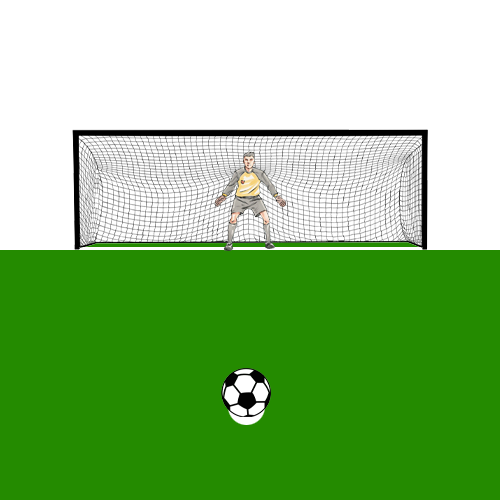
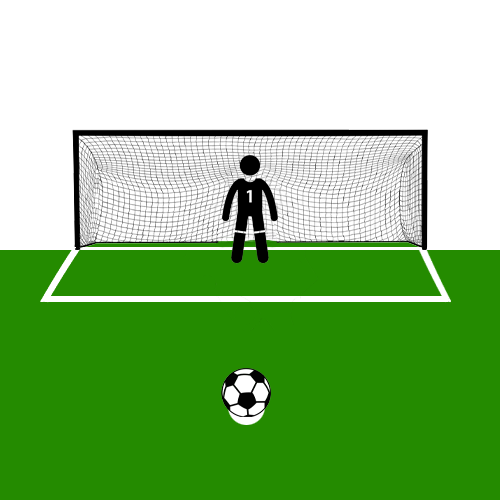
advanced penalty command

Changed region(s): [[0.09, 0.48, 0.9, 0.63], [0.42, 0.3, 0.6, 0.54]]

diff --git a/commands/penalty.js b/commands/penalty.js
@@ -28,7 +28,7 @@ module.exports = {
 
         if (cooldown < 0) return interaction.reply({ content: `You need to wait **${parseInt(-1 * cooldown / 1000)}s** to use the commands again`, ephemeral: true });
 
-        if(data.economy.wallet < bid) return interaction.reply({ content: `You don't even have that amount.`, ephemeral: true });
+        if (data.economy.wallet < bid) return interaction.reply({ content: `You don't even have that amount.`, ephemeral: true });
 
         if (bid <= 0 || bid > 2000) return interaction.reply({ content: 'You can\'t bid with more than **2000** or with negative amounts.', ephemeral: true })
 
@@ -40,9 +40,18 @@ module.exports = {
 
         const baseImage = await Canvas.loadImage('assests/initial.png');
         const ball = await Canvas.loadImage('assests/football.png');
-        const left = await Canvas.loadImage('assests/left.png');
-        const right = await Canvas.loadImage('assests/right.png');
-        const middle = await Canvas.loadImage('assests/middle.png');
+        const left = {
+            direction: 'left',
+            img: await Canvas.loadImage('assests/left.png')
+        };
+        const right = {
+            direction: 'right',
+            img: await Canvas.loadImage('assests/right.png')
+        };
+        const middle = {
+            direction: 'middle',
+            img: await Canvas.loadImage('assests/middle.png')
+        };
 
         ctx.drawImage(baseImage, 0, 0, canvas.width, canvas.height);
 
@@ -93,47 +102,49 @@ module.exports = {
 
             let message = "";
 
-            const canvas2 = Canvas.createCanvas(500, 500);
-
-            const ctx2 = canvas2.getContext('2d');
+            switch (goalKeeperGuess) {
+                case 'left':
+                    ctx.drawImage(left.img, 0, 0, canvas.width, canvas.height);
+                    break;
+                case 'right':
+                    ctx.drawImage(right.img, 0, 0, canvas.width, canvas.height);
+                    break;
+                case 'middle':
+                    ctx.drawImage(middle.img, 0, 0, canvas.width, canvas.height);
+                    break;
+            }
 
             if (col.customId === goalKeeperGuess) {
                 switch (col.customId) {
                     case 'left':
-                        ctx2.drawImage(left, 0, 0, canvas2.width, canvas2.height);
-                        ctx2.drawImage(ball, 100, 200, 20, 20);
-                        message = `Bad Guess, You shooted **left** but the goalkeeper saved it. You Lost **${bid}** ${config.coinEmoji}`;
+                        ctx.drawImage(ball, 120, 160, 20, 20);
+                        message = `Bad Guess, You shooted **left** and the goalkeeper guessed **${goalKeeperGuess}** You Lost **${bid}** ${config.coinEmoji}`;
                         break;
                     case 'middle':
-                        ctx2.drawImage(middle, 0, 0, canvas2.width, canvas2.height);
-                        ctx2.drawImage(ball, 235, 200, 20, 20);
-                        message = `Bad Guess, You shooted in the **middle** but the goalkeeper saved it. You Lost **${bid}** ${config.coinEmoji}`;
+                        ctx.drawImage(ball, 235, 180, 20, 20);
+                        message = `Bad Guess, You shooted in the **middle** and the goalkeeper guessed **${goalKeeperGuess}** You Lost **${bid}** ${config.coinEmoji}`;
                         break;
                     case 'right':
-                        ctx2.drawImage(middle, 0, 0, canvas2.width, canvas2.height);
-                        ctx2.drawImage(ball, 380, 200, 20, 20);
-                        message = `Bad Guess, You shooted **right** but the goalkeeper saved it. You Lost **${bid}** ${config.coinEmoji}`;
+                        ctx.drawImage(ball, 360, 190, 20, 20);
+                        message = `Bad Guess, You shooted **right** and the goalkeeper guessed **${goalKeeperGuess}** You Lost **${bid}** ${config.coinEmoji}`;
                         break;
                 }
-                
-                data.economy.wallet += bid * 2;
+
+                data.economy.wallet += bid * 1.5;
                 await data.save();
-            } else {
+            } else if (col.customId !== goalKeeperGuess) {
                 switch (col.customId) {
                     case 'left':
-                        ctx2.drawImage(right, 0, 0, canvas2.width, canvas2.height);
-                        ctx2.drawImage(ball, 100, 200, 20, 20);
-                        message = `Good Guess, You shooted **left** and the goalkeeper didn't saved it. You won **${bid * 2}** ${config.coinEmoji}`;
+                        ctx.drawImage(ball, 100, 200, 20, 20);
+                        message = `Good Guess, You shooted **left** but the goalkeeper guessed **${goalKeeperGuess}**. You won **${bid * 1.5}** ${config.coinEmoji}`;
                         break;
                     case 'middle':
-                        ctx2.drawImage(left, 0, 0, canvas2.width, canvas2.height);
-                        ctx2.drawImage(ball, 250, 200, 20, 20);
-                        message = `Good Guess, You shooted in **the middle** and the goalkeeper didn't saved it. You won **${bid * 2}** ${config.coinEmoji}`;
+                        ctx.drawImage(ball, 250, 180, 20, 20);
+                        message = `Good Guess, You shooted in **the middle** but the goalkeeper guessed **${goalKeeperGuess}**. You won **${bid * 1.5}** ${config.coinEmoji}`;
                         break;
                     case 'right':
-                        ctx2.drawImage(middle, 0, 0, canvas2.width, canvas2.height);
-                        ctx2.drawImage(ball, 380, 200, 20, 20);
-                        message = `Good Guess, You shooted **right** and the goalkeeper didn't saved it. You won **${bid * 2}** ${config.coinEmoji}`;
+                        ctx.drawImage(ball, 360, 190, 20, 20);
+                        message = `Good Guess, You shooted **right** but the goalkeeper guessed **${goalKeeperGuess}**. You won **${bid * 1.5}** ${config.coinEmoji}`;
                         break;
                 }
             }
@@ -142,10 +153,10 @@ module.exports = {
                 Buttons.components[i].data.disabled = true;
             }
 
-            const imageEdited = new AttachmentBuilder(canvas2.toBuffer(), { name: 'penalty2.png' });
+            const imageEdited = new AttachmentBuilder(canvas.toBuffer(), { name: 'penalty.png' });
 
             ChoiceEmbed
-                .setImage('attachment://penalty2.png')
+                .setImage('attachment://penalty.png')
                 .setDescription(`${message}`);
 
             await reply.edit({ embeds: [ChoiceEmbed], files: [imageEdited], components: [Buttons] })
